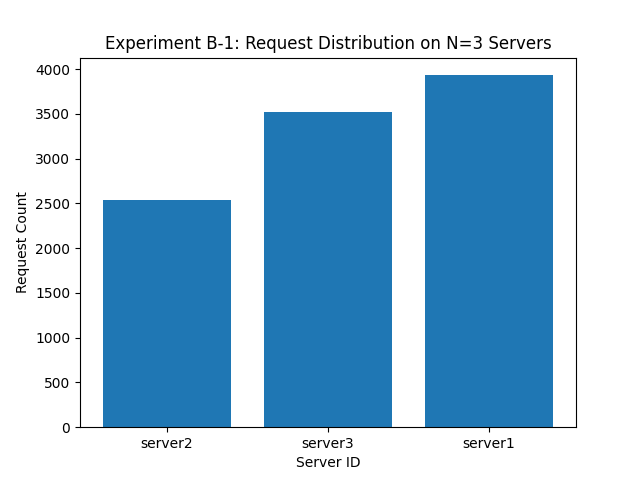
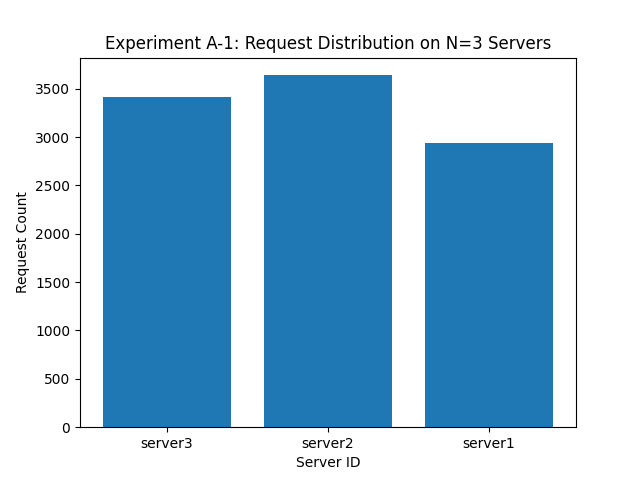
updated results images

diff --git a/Assignment-1/README.md b/Assignment-1/README.md
@@ -60,13 +60,16 @@ All endpoints of the load balancer were tested successfully, and the load balanc
 ![A-3](./Task-4/results/A3.png)
 
 ### A-4:
-Modified hash functions as follows:
+- Modified hash functions as follows:
     - Hash function for request mapping H($i$) = $11i^2 + 17i + 23$
     - Hash function for virtual server mapping $Φ$($i$, $j$) = $23i^2 + 71j^2 + 59j + 301$
 
-Results obtained for A1 using this modified hash function:
+- Results obtained for A1 using this modified hash function:
+
 ![B-1](./Task-4/results/B1.png)
 
-Results obtained for A2 using this modified hash function:
+- Results obtained for A2 using this modified hash function:
+
 ![B-2-mean](./Task-4/results/B2-mean.png)\
 
+![B-2-err](./Task-4/results/B2-err.png)
